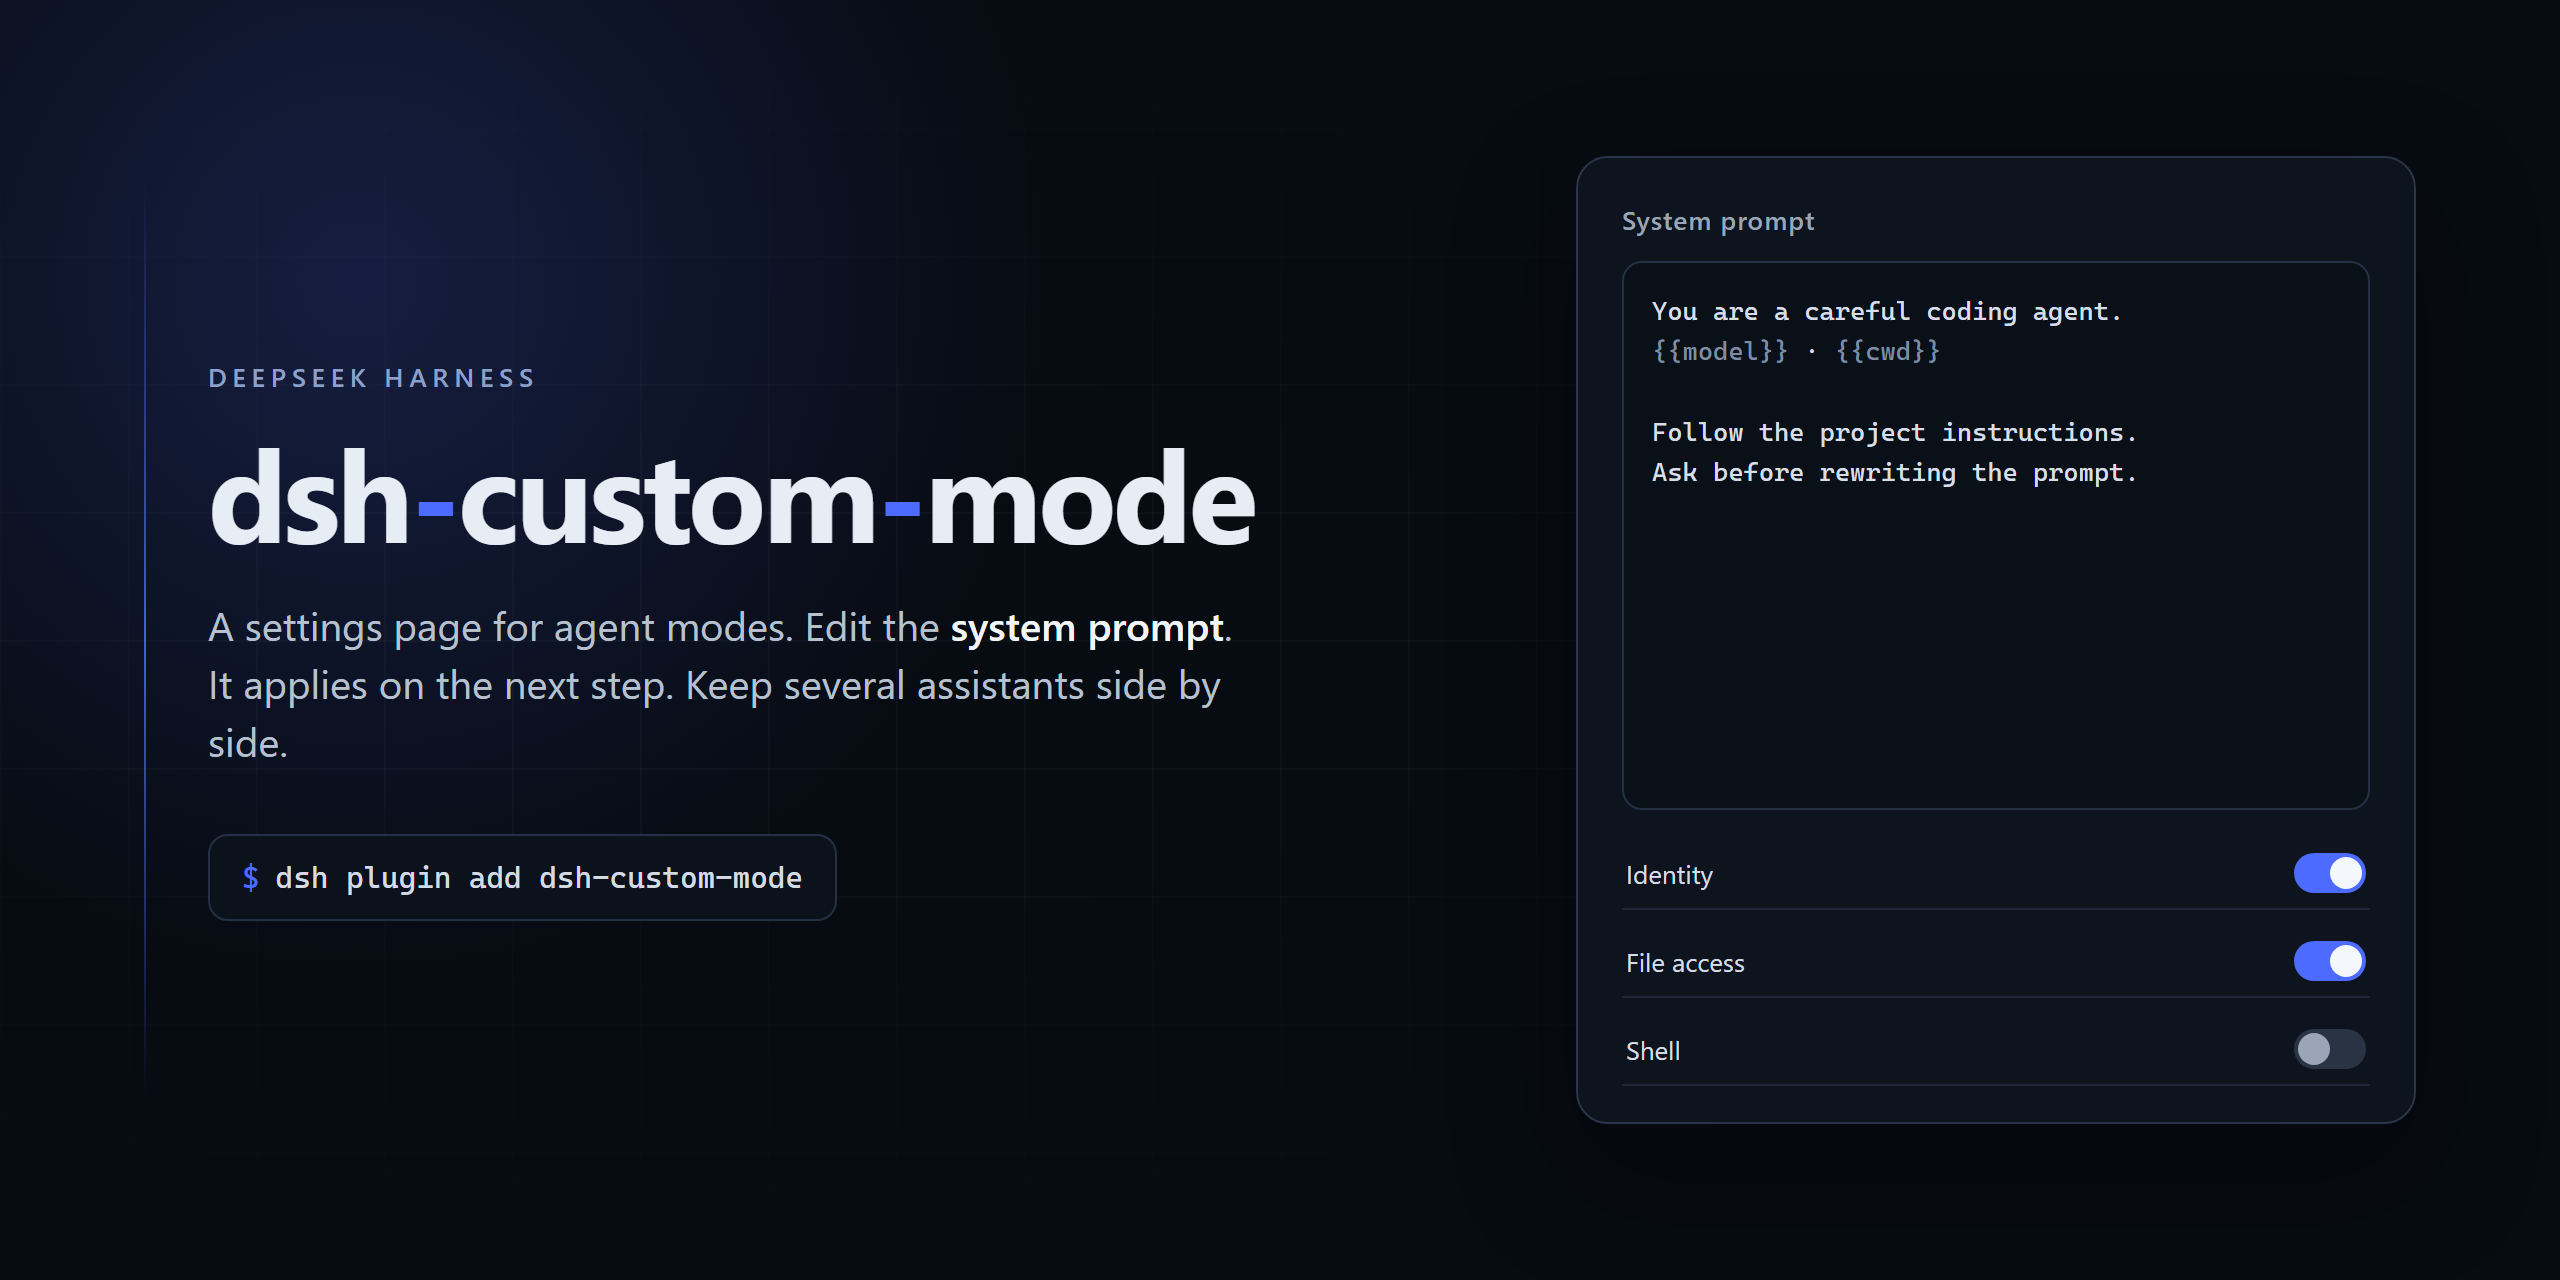
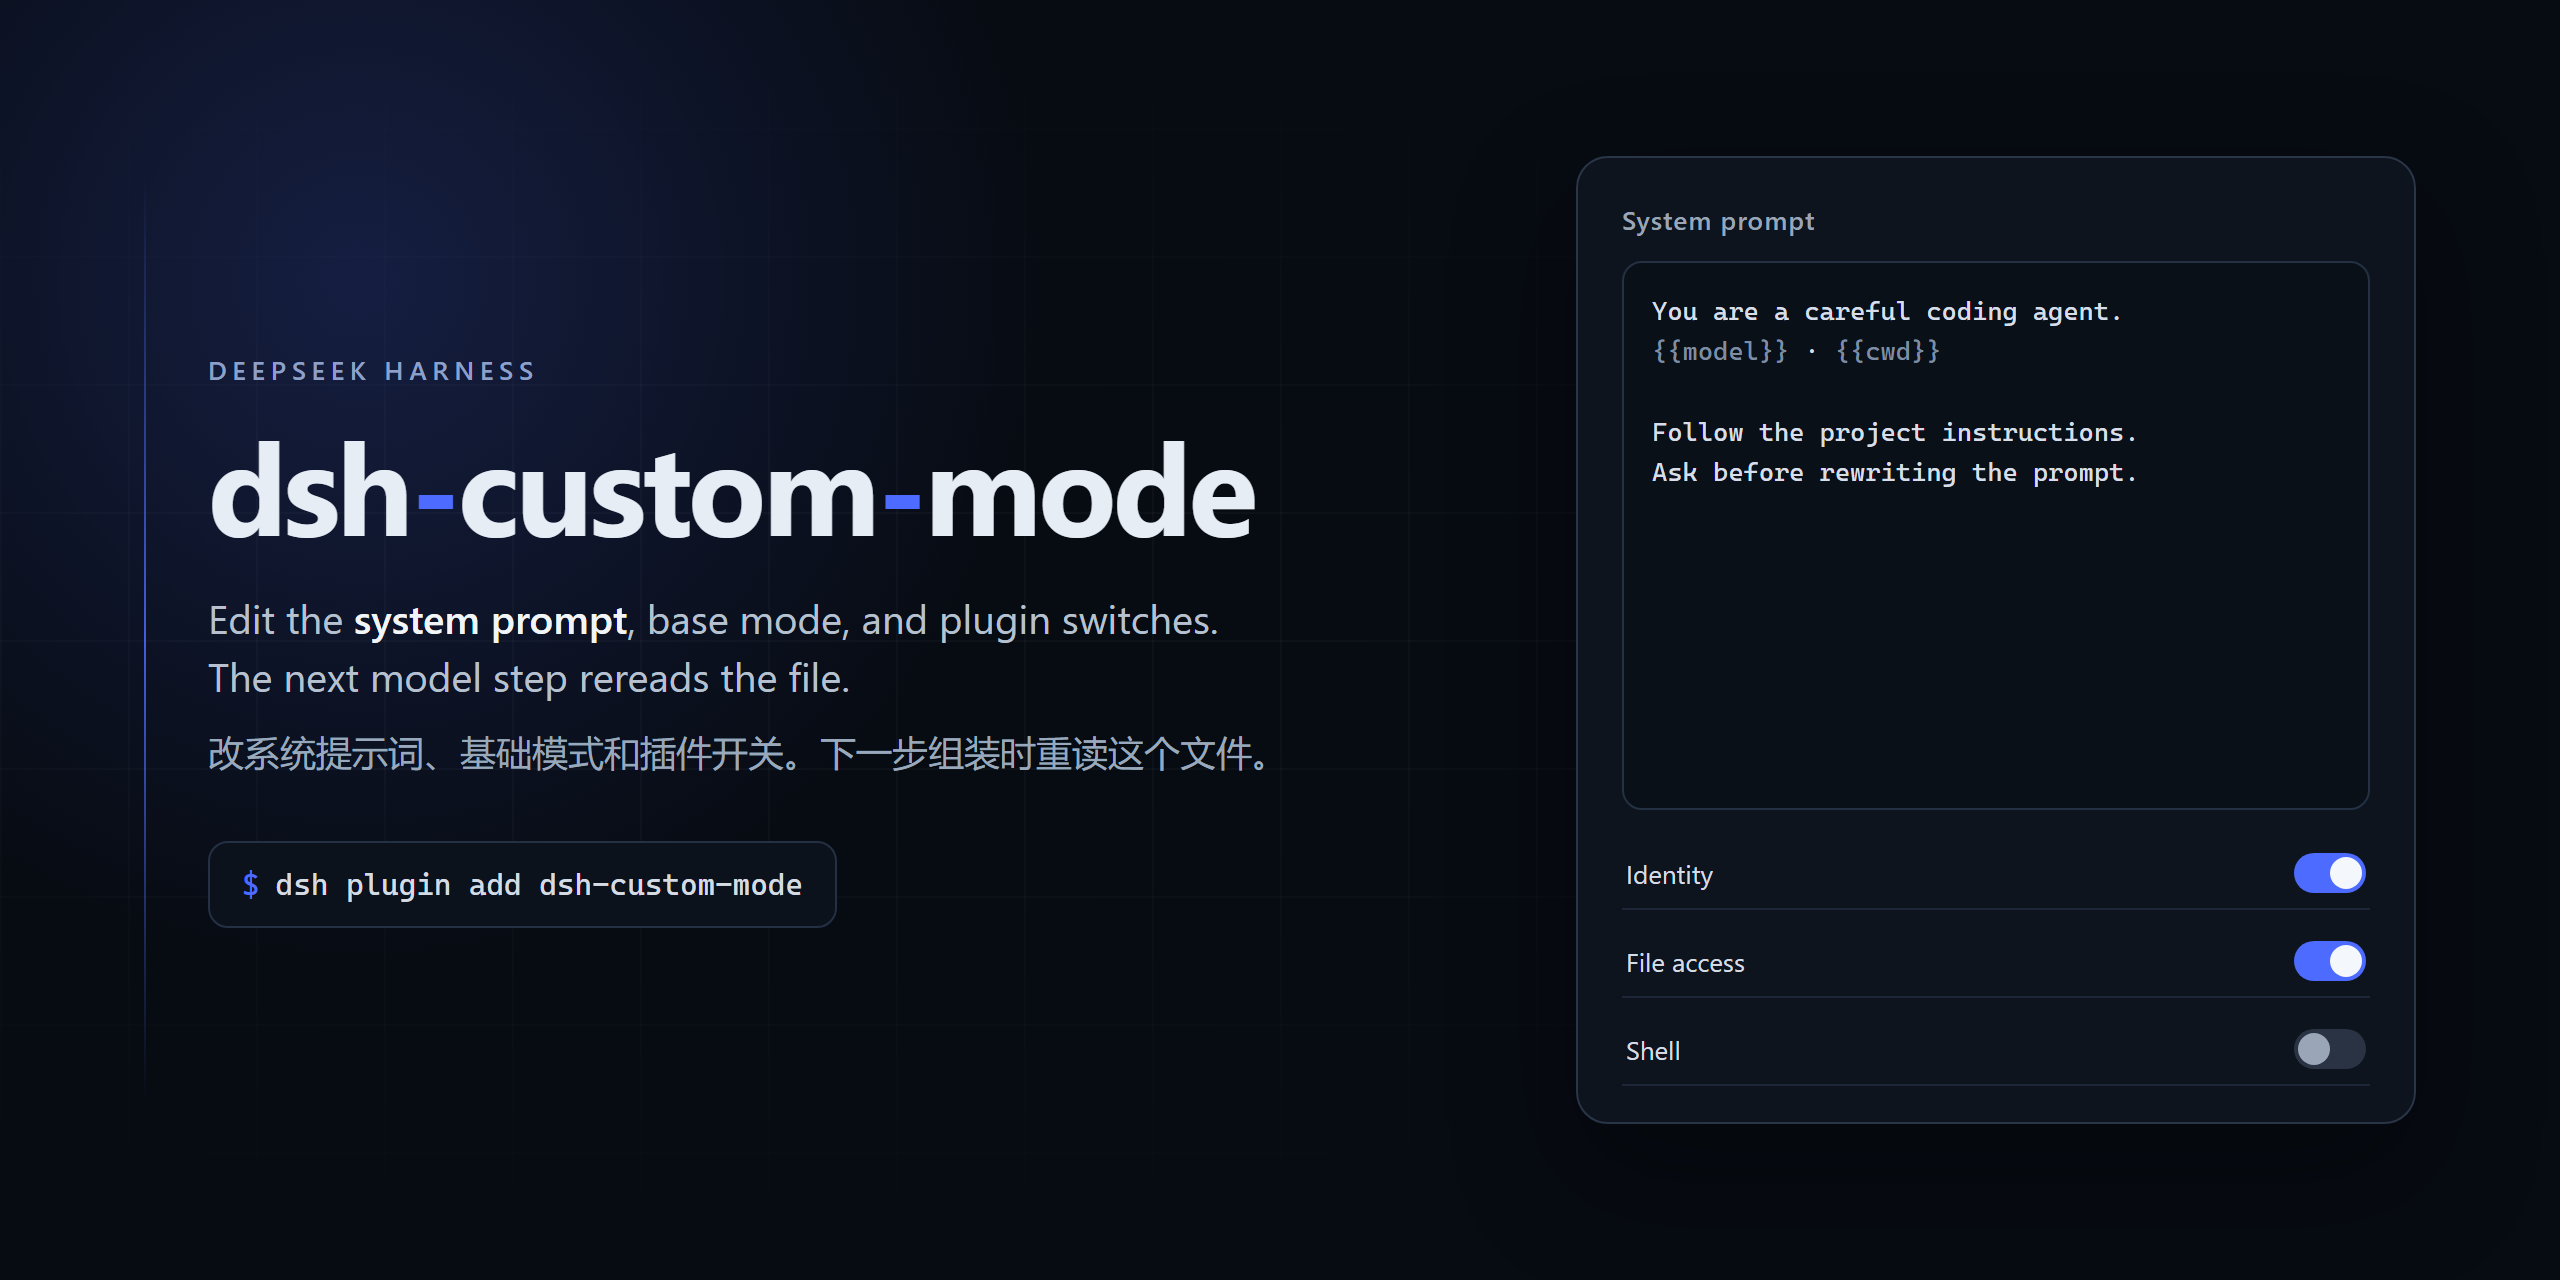
Release 2.2.1: center a 2x2 of equal screenshots and widen search terms.
Four 800x400 frames show assistants, the system prompt, the base mode, and plugin switches. Keywords cover both English queries and 自定义模式.

diff --git a/docs/images/header.html b/docs/images/header.html
@@ -41,10 +41,14 @@
   }
   h1 span { color: #4d6bfe; }
   .lead {
-    margin-top: 22px; max-width: 520px;
+    margin-top: 22px; max-width: 540px;
     font-size: 20px; line-height: 1.45; color: #b7c0ce; font-weight: 400;
   }
   .lead b { color: #f2f5f8; font-weight: 600; }
+  .zh {
+    margin-top: 10px; max-width: 540px;
+    font-size: 18px; line-height: 1.45; color: #9aa8bc; font-weight: 400;
+  }
   .cmd {
     margin-top: 32px; align-self: flex-start;
     border: 1px solid #243044; background: #0c121c;
@@ -93,7 +97,8 @@
     <div class="copy">
       <div class="kicker">DeepSeek Harness</div>
       <h1>dsh<span>-</span>custom<span>-</span>mode</h1>
-      <p class="lead">A settings page for agent modes. Edit the <b>system prompt</b>. It applies on the next step. Keep several assistants side by side.</p>
+      <p class="lead">Edit the <b>system prompt</b>, base mode, and plugin switches. The next model step rereads the file.</p>
+      <p class="zh">改系统提示词、基础模式和插件开关。下一步组装时重读这个文件。</p>
       <div class="cmd"><i>$</i>dsh plugin add dsh-custom-mode</div>
     </div>
     <aside class="card">

diff --git a/README.md b/README.md
@@ -2,16 +2,29 @@
 
 English | [中文](README.zh.md)
 
-Edit a DeepSeek Harness (`dsh`) mode's system prompt, base mode, and plugin switches. Keep more than one assistant. Standard, PTC, Minimal, and Creator stay in the menu.
+Edit a DeepSeek Harness (`dsh`) custom mode: system prompt, base mode, and plugin switches. Keep more than one assistant. 自定义模式、系统提示词、提示词编辑。
 
-![Settings](https://raw.githubusercontent.com/BOWLUNA/dsh-custom-mode/main/docs/images/01-mode-switch.png)
+<p align="center">
+<img src="https://raw.githubusercontent.com/BOWLUNA/dsh-custom-mode/main/docs/images/header.png" width="820" alt="dsh-custom-mode">
+</p>
+
+<table align="center">
+<tr>
+<td align="center"><img src="https://raw.githubusercontent.com/BOWLUNA/dsh-custom-mode/main/docs/images/05-assistant-manager.png" width="360" alt="Assistants"></td>
+<td align="center"><img src="https://raw.githubusercontent.com/BOWLUNA/dsh-custom-mode/main/docs/images/03-system-prompt.png" width="360" alt="System prompt"></td>
+</tr>
+<tr>
+<td align="center"><img src="https://raw.githubusercontent.com/BOWLUNA/dsh-custom-mode/main/docs/images/01-mode-switch.png" width="360" alt="Base mode"></td>
+<td align="center"><img src="https://raw.githubusercontent.com/BOWLUNA/dsh-custom-mode/main/docs/images/02-plugin-switches.png" width="360" alt="Plugin switches"></td>
+</tr>
+</table>
 
 ## Install
 
 Pin the version. A bare name can install an older build during pnpm's release cooldown. Details: [docs/TROUBLESHOOTING.md](docs/TROUBLESHOOTING.md).
 
 ```sh
-dsh plugin --profile web add dsh-custom-mode@2.2.0
+dsh plugin --profile web add dsh-custom-mode@2.2.1
 ```
 
 Restart the process that serves the profile. The version on the settings page is the one that is running.
@@ -46,7 +59,7 @@ New assistants start as one posture. That choice applies only to the assistant y
 
 Declared range: `>=0.1.5-rc.2 <0.2.0-0 || >=0.1.6-alpha.1 <0.2.0-0 || >=0.1.7-alpha.1 <0.2.0-0 || >=0.2.0-0 <0.3.0-0 || >=0.2.1-alpha.1 <0.3.0-0`
 
-| dsh | Claim | Checked for 2.2.0 |
+| dsh | Claim | Checked for 2.2.1 |
 | --- | --- | --- |
 | `0.2.0-rc.2` | declared | Windows web profile, before this release |
 | `0.2.1-alpha.1` | declared, in CI | not re-run for this release |

diff --git a/README.zh.md b/README.zh.md
@@ -2,16 +2,29 @@
 
 [English](README.md) | 中文
 
-在 DeepSeek Harness（`dsh`）里改一个模式的系统提示词、基础模式和插件开关。可以有多个助手。标准、PTC、极简、创造仍留在菜单里。
+在 DeepSeek Harness（`dsh`）里改自定义模式的系统提示词、基础模式和插件开关。可以有多个助手。custom mode、system prompt、prompt editor。
 
-![设置页](https://raw.githubusercontent.com/BOWLUNA/dsh-custom-mode/main/docs/images/01-mode-switch.png)
+<p align="center">
+<img src="https://raw.githubusercontent.com/BOWLUNA/dsh-custom-mode/main/docs/images/header.png" width="820" alt="dsh-custom-mode">
+</p>
+
+<table align="center">
+<tr>
+<td align="center"><img src="https://raw.githubusercontent.com/BOWLUNA/dsh-custom-mode/main/docs/images/05-assistant-manager.png" width="360" alt="助手"></td>
+<td align="center"><img src="https://raw.githubusercontent.com/BOWLUNA/dsh-custom-mode/main/docs/images/03-system-prompt.png" width="360" alt="系统提示词"></td>
+</tr>
+<tr>
+<td align="center"><img src="https://raw.githubusercontent.com/BOWLUNA/dsh-custom-mode/main/docs/images/01-mode-switch.png" width="360" alt="基础模式"></td>
+<td align="center"><img src="https://raw.githubusercontent.com/BOWLUNA/dsh-custom-mode/main/docs/images/02-plugin-switches.png" width="360" alt="插件开关"></td>
+</tr>
+</table>
 
 ## 安装
 
 钉版本。只写包名时，pnpm 的发布冷却期可能装到旧版。细节见 [docs/TROUBLESHOOTING.zh.md](docs/TROUBLESHOOTING.zh.md)。
 
 ```sh
-dsh plugin --profile web add dsh-custom-mode@2.2.0
+dsh plugin --profile web add dsh-custom-mode@2.2.1
 ```
 
 重启为这个 profile 提供服务的进程。设置页上的版本号才是正在运行的版本。
@@ -46,7 +59,7 @@ dsh plugin --profile web add dsh-custom-mode@2.2.0
 
 声明范围：`>=0.1.5-rc.2 <0.2.0-0 || >=0.1.6-alpha.1 <0.2.0-0 || >=0.1.7-alpha.1 <0.2.0-0 || >=0.2.0-0 <0.3.0-0 || >=0.2.1-alpha.1 <0.3.0-0`
 
-| dsh | 声明 | 2.2.0 核对 |
+| dsh | 声明 | 2.2.1 核对 |
 | --- | --- | --- |
 | `0.2.0-rc.2` | 声明支持 | 本版发布前的 Windows web profile |
 | `0.2.1-alpha.1` | 声明支持，CI 有这条腿 | 本版没有重跑 |

diff --git a/SECURITY.md b/SECURITY.md
@@ -20,7 +20,8 @@ longer encodes it. Development and verification cover the rows below, newest fir
 
 | Plugin version | DSH version | Status |
 | --- | --- | --- |
-| `2.2.0` (current release) | `0.2.0-rc.2`, preview `0.2.1-alpha.1`, and `0.1.7-rc.2` | **Supported** — same declared range as 2.1.0. This release writes `agent-presets.default: custom` only when that key is absent |
+| `2.2.1` (current release) | `0.2.0-rc.2`, preview `0.2.1-alpha.1`, and `0.1.7-rc.2` | **Supported** — storefront update on top of 2.2.0. Same declared range |
+| `2.2.0` | `0.2.0-rc.2`, preview `0.2.1-alpha.1`, and `0.1.7-rc.2` | Supported (superseded) — same declared range as 2.1.0. This release writes `agent-presets.default: custom` only when that key is absent |
 | `2.1.0` | `0.2.0-rc.2` (npm `latest` **and** `next`), the newest preview `0.2.1-alpha.1` (npm `alpha`) **and** the previous stable `0.1.7-rc.2` | Supported (superseded) — the declared range is `>=0.1.5-rc.2 <0.2.0-0 \|\| >=0.1.6-alpha.1 <0.2.0-0 \|\| >=0.1.7-alpha.1 <0.2.0-0 \|\| >=0.2.0-0 <0.3.0-0 \|\| >=0.2.1-alpha.1 <0.3.0-0`, and CI installs each of the three lines and runs the whole suite against it (the render gate runs on `0.2.0-rc.2`). The official desktop app is covered: it is version-locked to dsh and currently ships `0.2.0-rc.2`. Since dsh 0.2.0 an out-of-range plugin is **refused at install time**, so this range is enforcement rather than a warning |
 | `1.9.19` | the same range | Supported (superseded) |
 | `1.9.17` | the same | Supported (superseded) |

diff --git a/SECURITY.zh.md b/SECURITY.zh.md
@@ -17,7 +17,8 @@
 
 | 插件版本 | DSH 版本 | 状态 |
 | --- | --- | --- |
-| `2.2.0`（当前发布版本） | `0.2.0-rc.2`、预览版 `0.2.1-alpha.1`、以及 `0.1.7-rc.2` | **支持** —— 声明范围与 2.1.0 相同。本版只在 `agent-presets.default` 这个键还不存在时写成 `custom` |
+| `2.2.1`（当前发布版本） | `0.2.0-rc.2`、预览版 `0.2.1-alpha.1`、以及 `0.1.7-rc.2` | **支持** —— 在 2.2.0 之上的门面更新。声明范围不变 |
+| `2.2.0` | `0.2.0-rc.2`、预览版 `0.2.1-alpha.1`、以及 `0.1.7-rc.2` | 支持（已被取代）—— 声明范围与 2.1.0 相同。本版只在 `agent-presets.default` 这个键还不存在时写成 `custom` |
 | `2.1.0` | `0.2.0-rc.2`（npm `latest` **与** `next`）、最新预览版 `0.2.1-alpha.1`（npm `alpha`）**与**上一个正式版 `0.1.7-rc.2` | 支持（已被取代）—— 声明范围是 `>=0.1.5-rc.2 <0.2.0-0 \|\| >=0.1.6-alpha.1 <0.2.0-0 \|\| >=0.1.7-alpha.1 <0.2.0-0 \|\| >=0.2.0-0 <0.3.0-0 \|\| >=0.2.1-alpha.1 <0.3.0-0`，CI 对三条线各安装一次并各跑一遍完整测试（渲染闸门跑 `0.2.0-rc.2`）。官方桌面端也在覆盖范围内：它与 dsh 同版本号，当前即为 `0.2.0-rc.2`。注意 dsh 0.2.0 起"范围不覆盖"是**安装期直接拒绝**，所以这个范围是强制，不是警告 |
 | `1.9.19` | 同上 | 支持（已被取代） |
 | `1.9.17` | 同上 | 支持（已被取代） |

diff --git a/CHANGELOG.md b/CHANGELOG.md
@@ -8,6 +8,18 @@ CI asserts the DSH version it actually installs and tests falls inside them — 
 section of the README. Entries from `0.1.6-alpha.*` and earlier follow the old convention (the version
 mirrored the DSH release) and are kept as history.
 
+## [2.2.1]
+
+### Storefront
+
+- README shows a centered 2×2 of four 800×400 screenshots: assistants, system prompt, base mode, plugin switches. No letterbox.
+- npm keywords cover the English search terms and 自定义模式 / 系统提示词 / 提示词编辑.
+- Header banner states the same sentence in English and Chinese.
+
+### What you need to do
+
+Nothing, unless you want the pictures. Restart is not required for a README-only install, but installing `2.2.1` still needs a restart of dsh.
+
 ## [2.2.0]
 
 ### The prompt you save is what a new session starts from

diff --git a/CHANGELOG.zh.md b/CHANGELOG.zh.md
@@ -6,6 +6,18 @@
 `engines.dsh` 与 `@deepseek-ai/dsh` peer 范围声明，CI 断言它实际安装并测试的 dsh 版本落在这些范围内
 —— 见 README「版本」。`0.1.6-alpha.*` 及更早的条目遵循旧约定（版本号镜像 DSH 版本），作为历史保留。
 
+## [2.2.1]
+
+### 门面
+
+- README 用居中的 2×2 放四张 800×400 截图：助手、系统提示词、基础模式、插件开关。没有黑边。
+- npm keywords 覆盖英文检索词，以及自定义模式 / 系统提示词 / 提示词编辑。
+- 头图用中英文同一句话。
+
+### 你需要做什么
+
+只是看图的话不用做任何事。安装 `2.2.1` 仍然要重启 dsh。
+
 ## [2.2.0]
 
 ### 保存的提示词就是新会话的起点

diff --git a/docs/images/README.md b/docs/images/README.md
@@ -1,8 +1,6 @@
 # Screenshots
 
-Five images, all **English**, and **all exactly 800x800** - one canvas, so the README 2x2 table lines up
-instead of stepping up and down (a 1440x900 shot would also render as a wall of mostly-empty shell: that
-is what "too big" looks like on GitHub).
+Five images used in the README are **800×400**, cropped inside the settings dialog so the 2×2 grid is one size and has no letterbox. Maximum frame is 800×800.
 
 ```
 01-mode-switch.png        800x800   Settings -> Custom mode: mode name + the FIVE base modes
